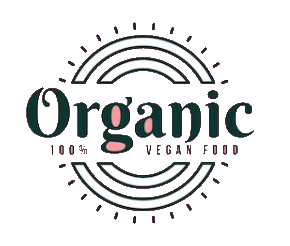
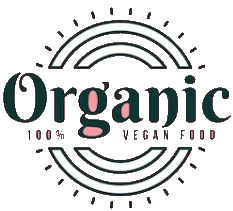
main page styling, img resize

diff --git a/src/pages/main/Main.jsx b/src/pages/main/Main.jsx
@@ -1,13 +1,15 @@
 import { Link } from "react-router-dom";
+import { Button } from "../../components/button/Button";
 import logo from "../../assets/img/veegoo.png";
+import style from "../main/Main.module.css";
 
 export function Main() {
   return (
-    <div>
-      <img src={logo} alt="shopLogo" />
+    <div className={style.main}>
+      <img className={style.mainLogo} src={logo} alt="shopLogo" />
       <h1>Shopping app</h1>
-      <Link  to="/feature1">
-        Get started
+      <Link className={style.link} to="/feature1">
+        <Button text="Get started" />
       </Link>
     </div>
   )

diff --git a/src/pages/main/Main.module.css b/src/pages/main/Main.module.css
@@ -1,0 +1,21 @@
+.main {
+    display: flex;
+    padding: 2rem;
+    flex-direction: column;
+    gap: 3rem;
+    align-items: center;
+}
+
+.mainLogo {
+  width: 200px;
+  border-radius: 10px;
+}
+
+.main h1 {
+  padding-bottom: 3rem;
+  font-size: 1.5rem;
+}
+
+.main a {
+  text-decoration: none;
+}

diff --git a/src/App.jsx b/src/App.jsx
@@ -1,5 +1,5 @@
 import { BrowserRouter, Routes, Route } from "react-router-dom";
-import style from "./App.module.css";
+import "./App.css";
 import { Main } from "./pages/main/Main";
 import { Page404 } from "./pages/page404/Page404";
 import { Feature1 } from "./pages/feature/Feature1";

diff --git a/src/index.css b/src/index.css
@@ -7,7 +7,8 @@ body * {
 }
 
 body {
-  font-family: 'Gill Sans', 'Gill Sans MT', Calibri, 'Trebuchet MS', sans-serif;
+  font-family: 'Times New Roman', Times, serif;
+  height: 100vh;
   background: #67f2b6;
   background: linear-gradient(45deg, #67f2b6, #e1fbf0);
-}
+};
